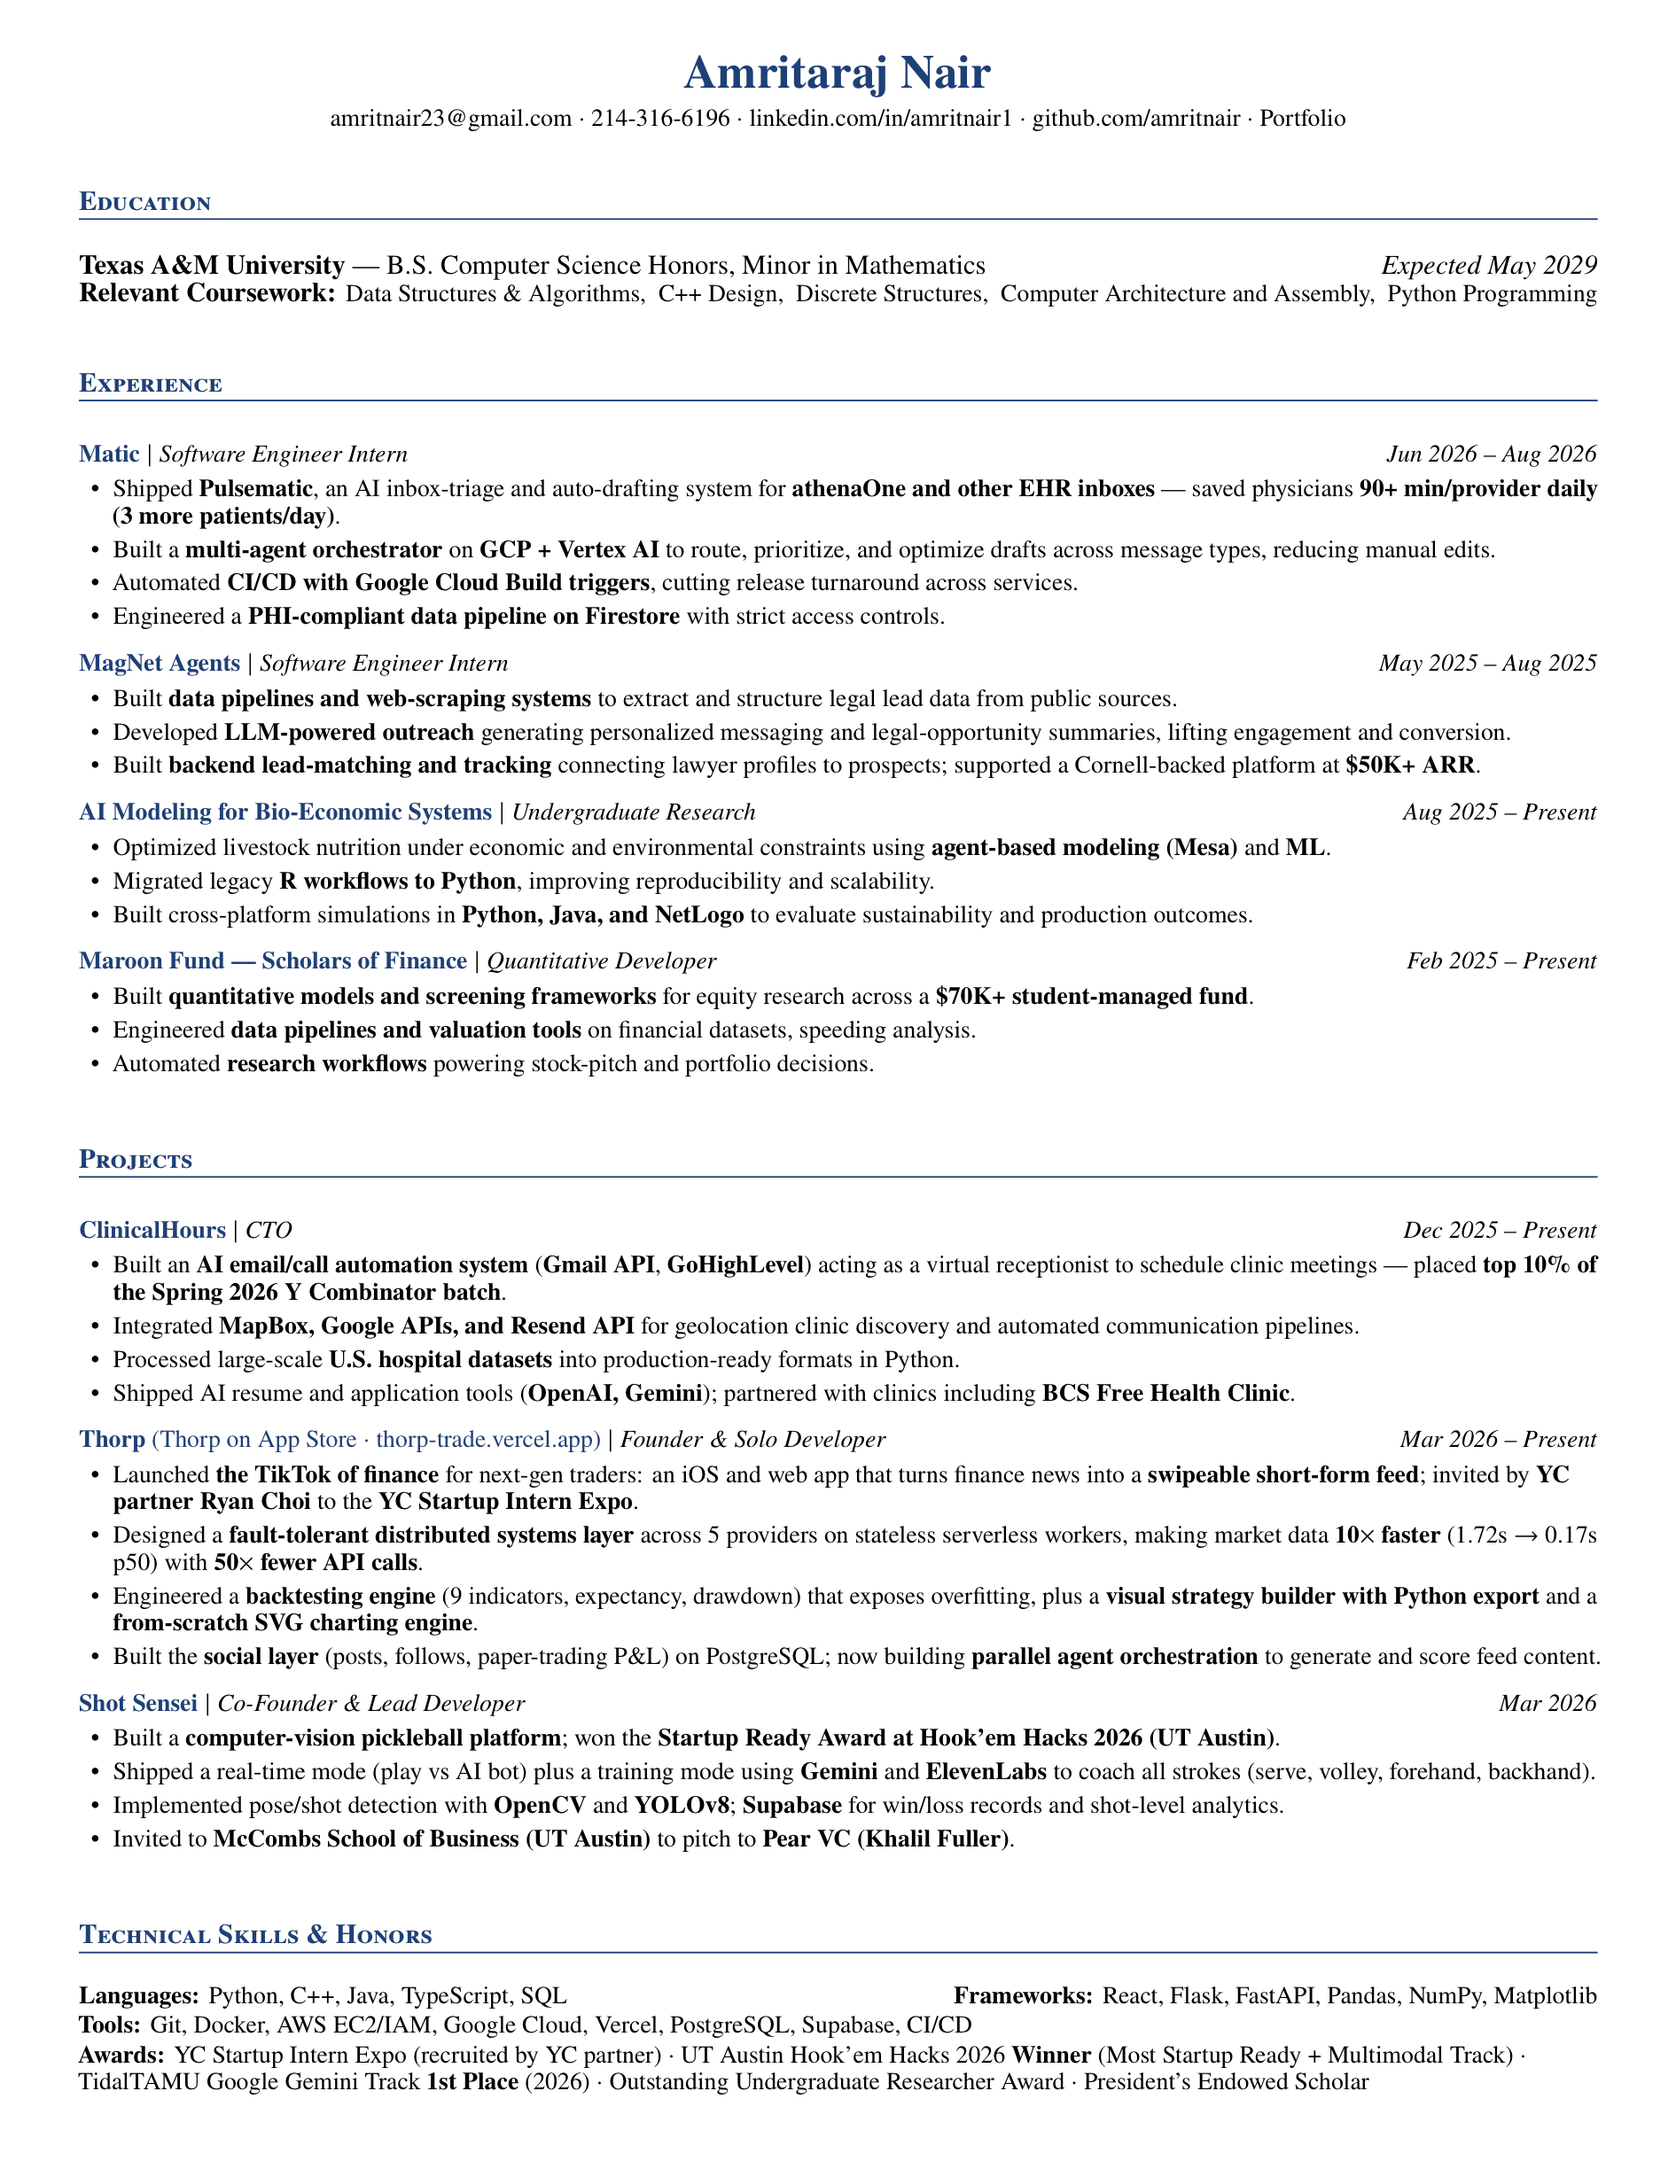
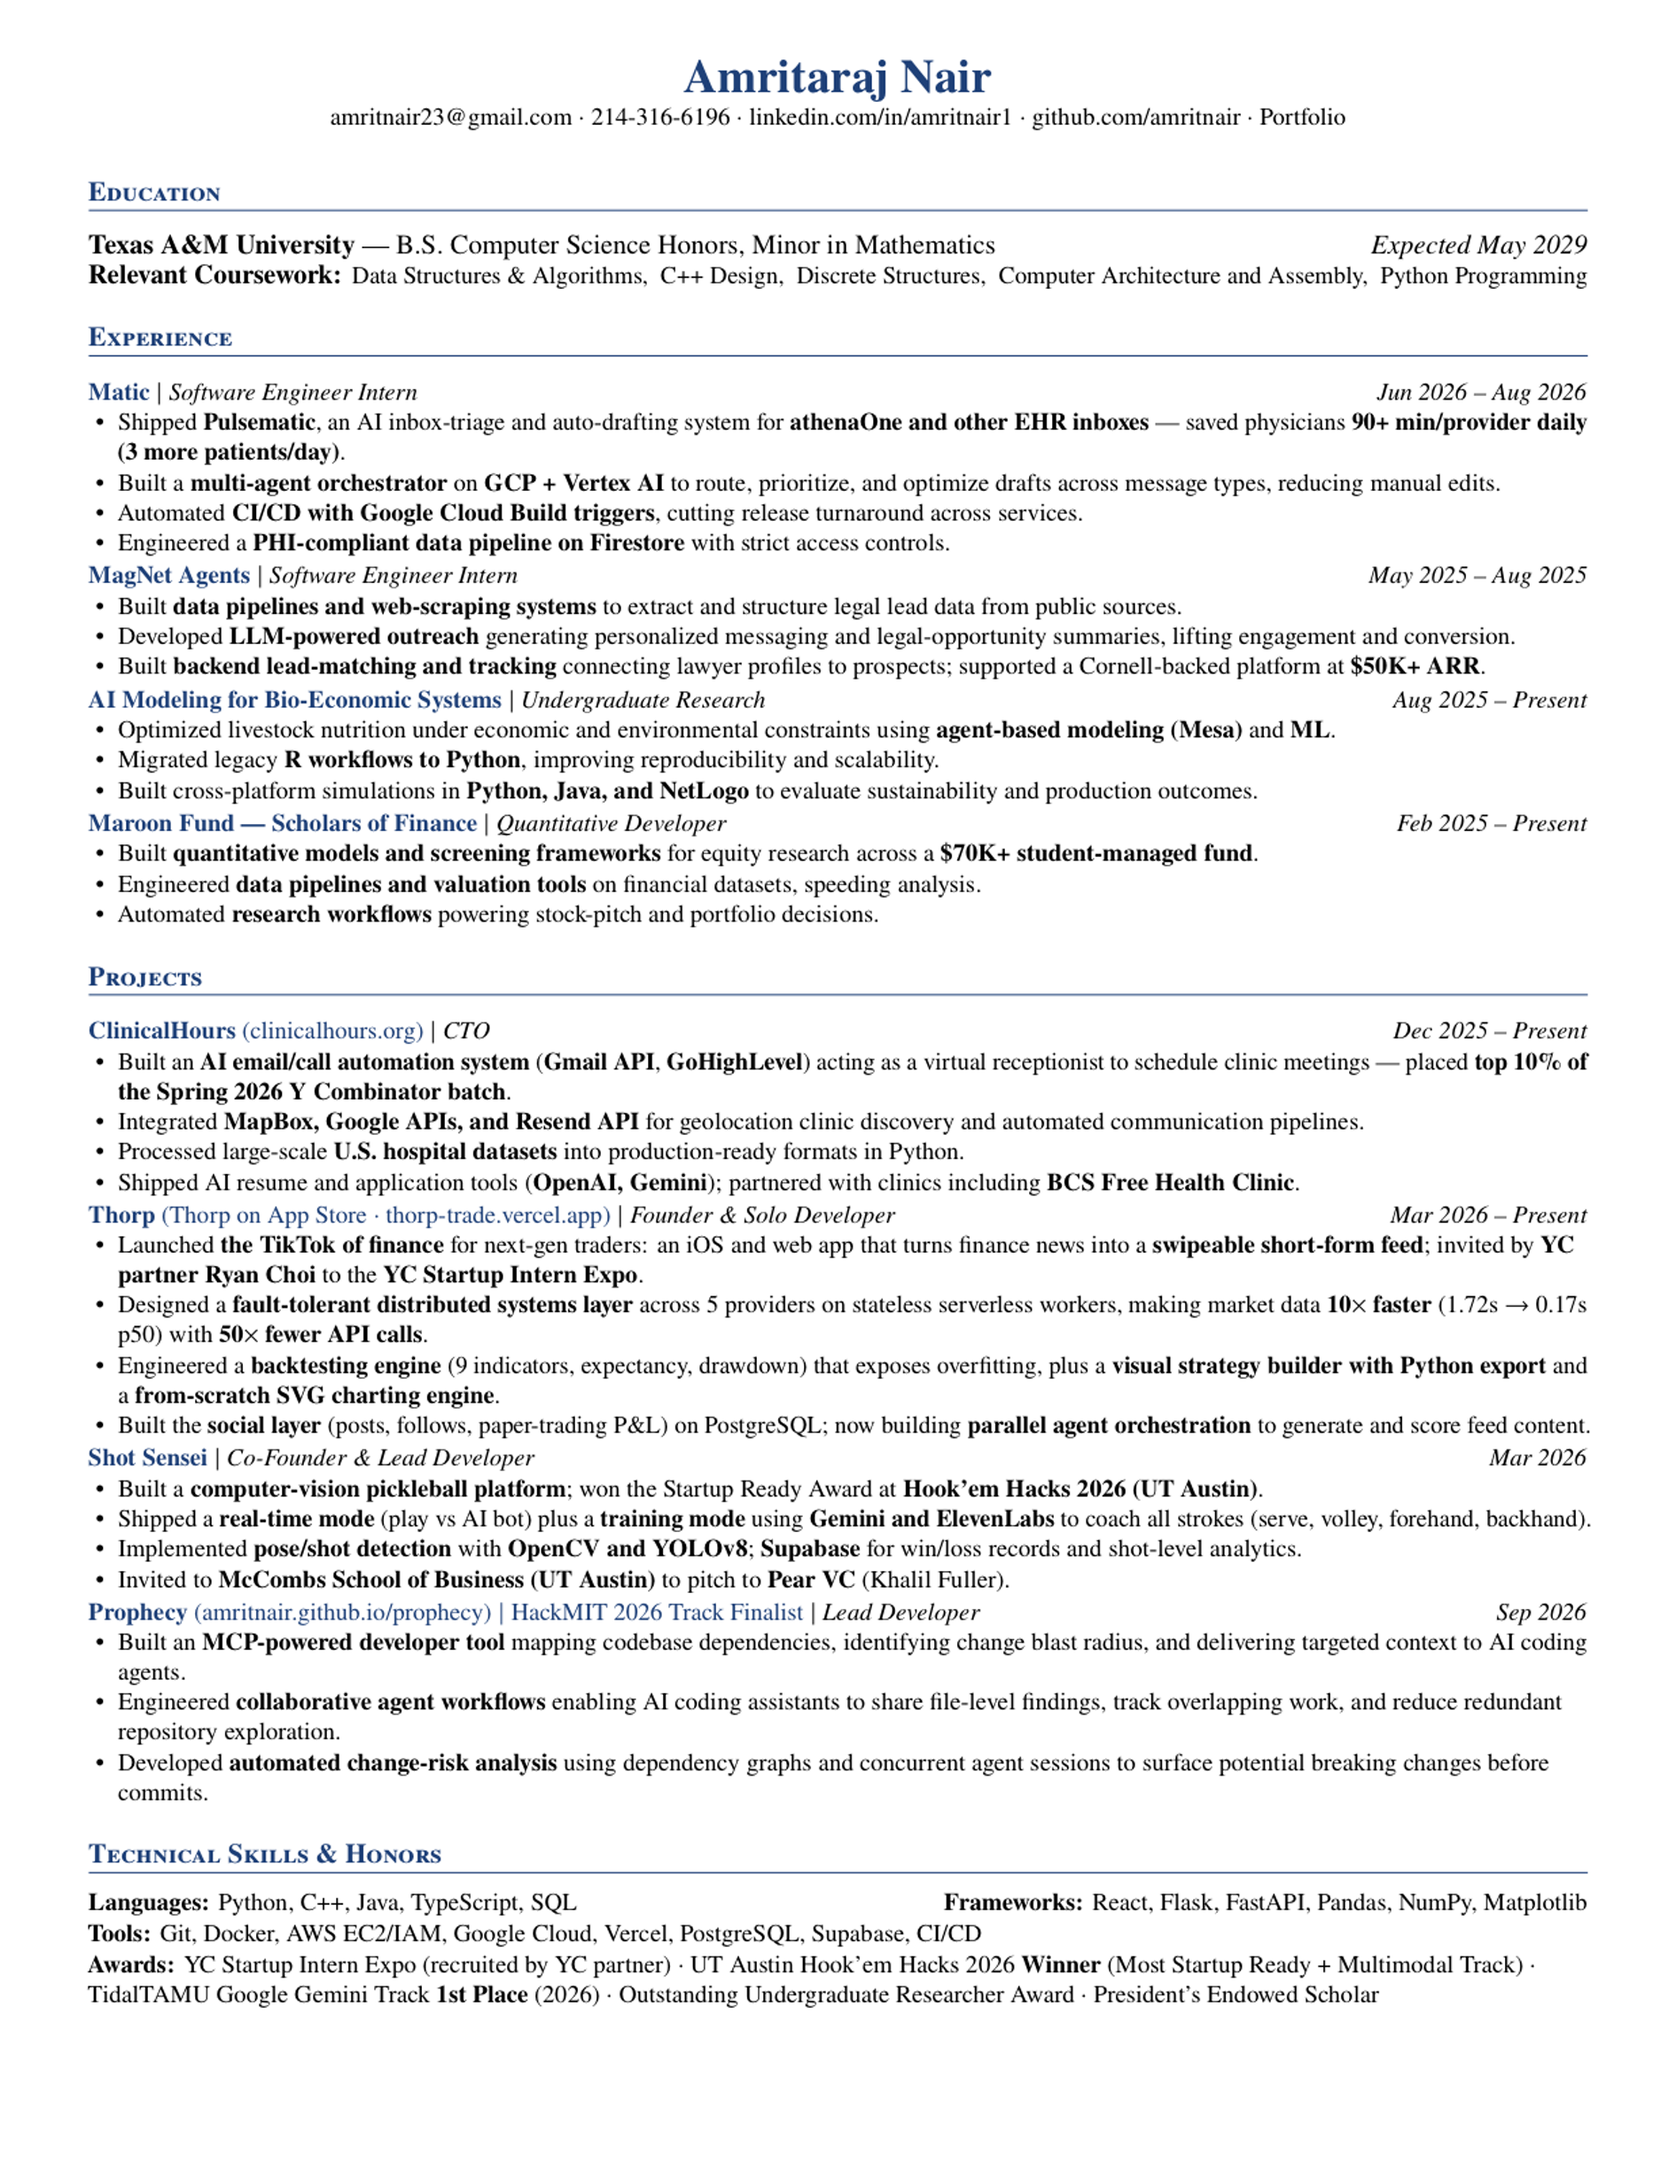
Add Prophecy project and update the resume
Prophecy (HackMIT 2026 track finalist): an MCP-powered dev tool that maps
codebase dependencies and hands AI coding agents the blast radius before they
touch anything. Card gets a full-page auto-scroll shot like the other live
builds. Also swaps in the latest resume PDF and its preview.

diff --git a/src/world/content.ts b/src/world/content.ts
@@ -220,6 +220,21 @@ export const ZONES: Zone[] = [
           { label: "playshotsensei.com", href: "https://playshotsensei.com" },
         ],
       },
+      {
+        id: "prophecy",
+        title: "Prophecy",
+        subtitle: "Lead Developer · HackMIT 2026 Track Finalist",
+        meta: "Sep 2026",
+        body: "An MCP-powered developer tool that maps a codebase's dependencies and hands AI coding agents the exact context — and the blast radius — before they touch anything.",
+        bullets: [
+          "Maps codebase dependencies to find a change's blast radius and deliver targeted context to AI coding agents",
+          "Built collaborative agent workflows so multiple AI assistants share file-level findings, track overlapping work, and skip redundant exploration",
+          "Automated change-risk analysis over the dependency graph and concurrent agent sessions to surface breaking changes before a commit",
+        ],
+        tags: ["MCP", "AI agents", "Dependency graphs", "Developer tools"],
+        shot: "shots/prophecy.jpg",
+        links: [{ label: "amritnair.github.io/prophecy", href: "https://amritnair.github.io/prophecy/" }],
+      },
     ],
   },
   {
